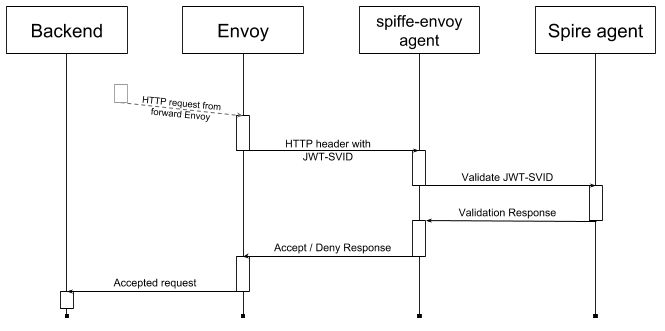
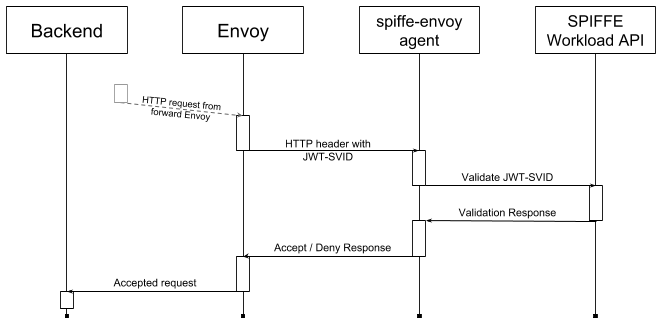
Replace Spire references with SPIFFE Workload Api (#4)
Replace Spire references with SPIFFE Workload Api

Changed region(s): [[0.812, 0.0302, 0.9925, 0.1511]]

diff --git a/README.md b/README.md
@@ -4,7 +4,7 @@ This component allows a user to integrate Envoy proxy with the SPIFFE identity f
 ## How does this integration work?
 
 This agent implements two services:
-- [Secret discovery service (SDS)](https://www.envoyproxy.io/docs/envoy/latest/configuration/secret#config-secret-discovery-service): Used to provide Envoy with x509-SVIDs fetched from SPIRE.
+- [Secret discovery service (SDS)](https://www.envoyproxy.io/docs/envoy/latest/configuration/secret#config-secret-discovery-service): Used to provide Envoy with x509-SVIDs fetched from SPIFFE Workload API.
 
 - [External authorization filter](https://www.envoyproxy.io/docs/envoy/latest/intro/arch_overview/ext_authz_filter): Used for JWT-SVIDs injection and validation in HTTP requests.
 
@@ -16,13 +16,13 @@ This agent implements two services:
 
 ## Communication between components
 
-When spiffe-envoy-agent starts, it registers itself with the above components: SPIRE agent and Envoy proxy. Agent communication is done using a [SPIFFE Workload API client](https://github.com/spiffe/spire/tree/master/api/workload) over a unix domain socket (or UDS). On the other hand, Envoy communication is ruled by Envoy [xDS protocol](https://github.com/envoyproxy/data-plane-api/blob/master/XDS_PROTOCOL.md) which also uses a UDS to communicate with spiffe-envoy-agent.
+When spiffe-envoy-agent starts, it registers with the SPIFFE Workload API and starts listening for requests from Envoy. Communication with the [SPIFFE Workload API](https://github.com/spiffe/spire/blob/master/proto/api/workload/workload.proto) is done using gRPC over a unix domain socket (or UDS). Envoy uses the [xDS API](https://github.com/envoyproxy/data-plane-api/blob/master/XDS_PROTOCOL.md) over UDS to talk to the spiffe-envoy-agent.
 
 ### Transport layer: X509-SVID
 
- For [x509-SVID](https://github.com/spiffe/spiffe/blob/master/standards/X509-SVID.md) management, the spiffe-envoy-agent exposes a [secret discovery service](https://www.envoyproxy.io/docs/envoy/latest/configuration/secret#config-secret-discovery-service), or SDS. A stream is created between it and SPIRE agent using the SPIFFE Workload API. SPIRE updates the stream with new SVIDs according to the configured settings.
+ For [x509-SVID](https://github.com/spiffe/spiffe/blob/master/standards/X509-SVID.md) management, the spiffe-envoy-agent exposes a [secret discovery service](https://www.envoyproxy.io/docs/envoy/latest/configuration/secret#config-secret-discovery-service), or SDS. A stream is created between the spiffe-envoy-agent and the SPIFFE Workload API. The SPIFFE Workload API updates the stream with new SVIDs according to the configured settings.
 
- At the same time, Envoy initiates the SDS communication with a [discovery request](https://www.envoyproxy.io/docs/envoy/latest/api-v2/api/v2/discovery.proto#discoveryrequest) message. The spiffe-envoy-agent establishes a stream and sends Envoy the latest certificate and key in a [discovery response](https://www.envoyproxy.io/docs/envoy/latest/api-v2/api/v2/discovery.proto#discoveryresponse) message. Certificate updates are then communicated in successive responses every time SPIRE rotates the SVID. Once Envoy applies the configurations received, it is ready to handle TLS connections.
+ At the same time, Envoy initiates the SDS communication with a [discovery request](https://www.envoyproxy.io/docs/envoy/latest/api-v2/api/v2/discovery.proto#discoveryrequest) message. The spiffe-envoy-agent establishes a stream and sends Envoy the latest certificate and key in a [discovery response](https://www.envoyproxy.io/docs/envoy/latest/api-v2/api/v2/discovery.proto#discoveryresponse) message. Certificate updates are then communicated in successive responses every time the SPIFFE Workload API rotates the SVID. Once Envoy applies the configurations received, it is ready to handle TLS connections.
 
 ### Application layer: JWT-SVID
 
@@ -30,7 +30,7 @@ On top of mTLS, HTTP requests can be done carrying a [JWT-SVID](https://github.c
 
 #### Forward spiffe-envoy-agent (Injection)
 
-Every HTTP request sent to the Envoy forward proxy is handled by the Envoy External Authorization module. This module forwards the request header to the configured spiffe-envoy-agent, which obtains a JWT-SVID for that request from the SPIRE agent. The JWT is then injected as a new header and sent back to Envoy.
+Every HTTP request sent to the Envoy forward proxy is handled by the Envoy External Authorization module. This module forwards the request header to the configured spiffe-envoy-agent, which obtains a JWT-SVID for that request from the SPIFFE Workload API. The JWT is then injected as a new header and sent back to Envoy.
 
 <p align="center">
 <img src=img/jwt-forward-flow.png align=center>
